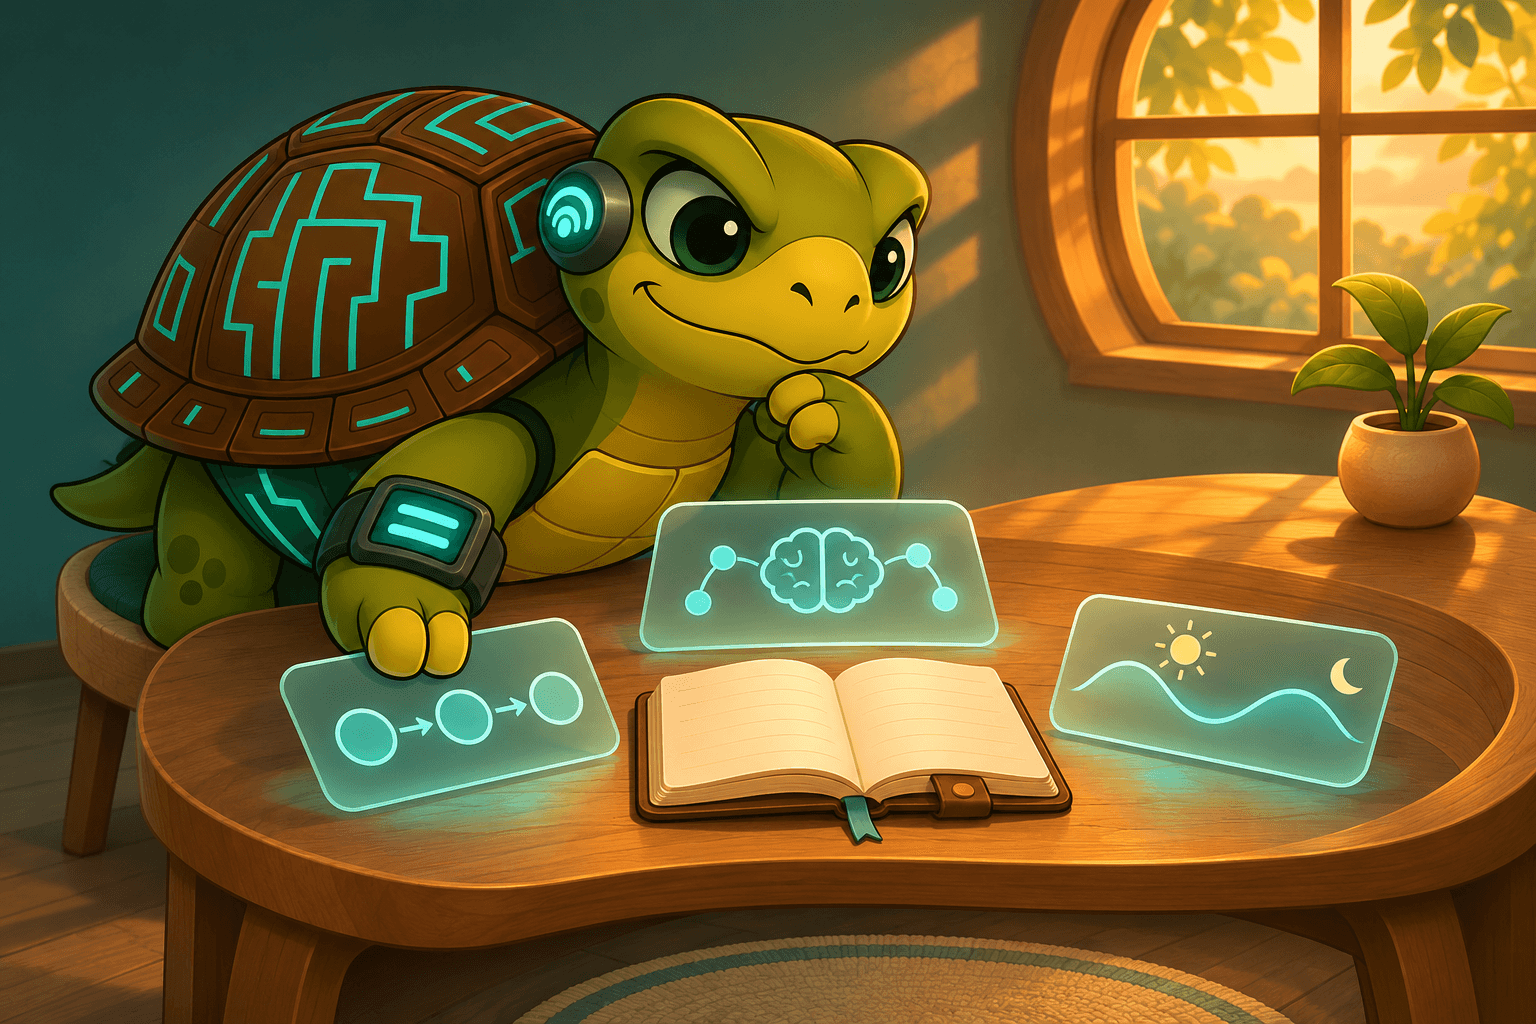
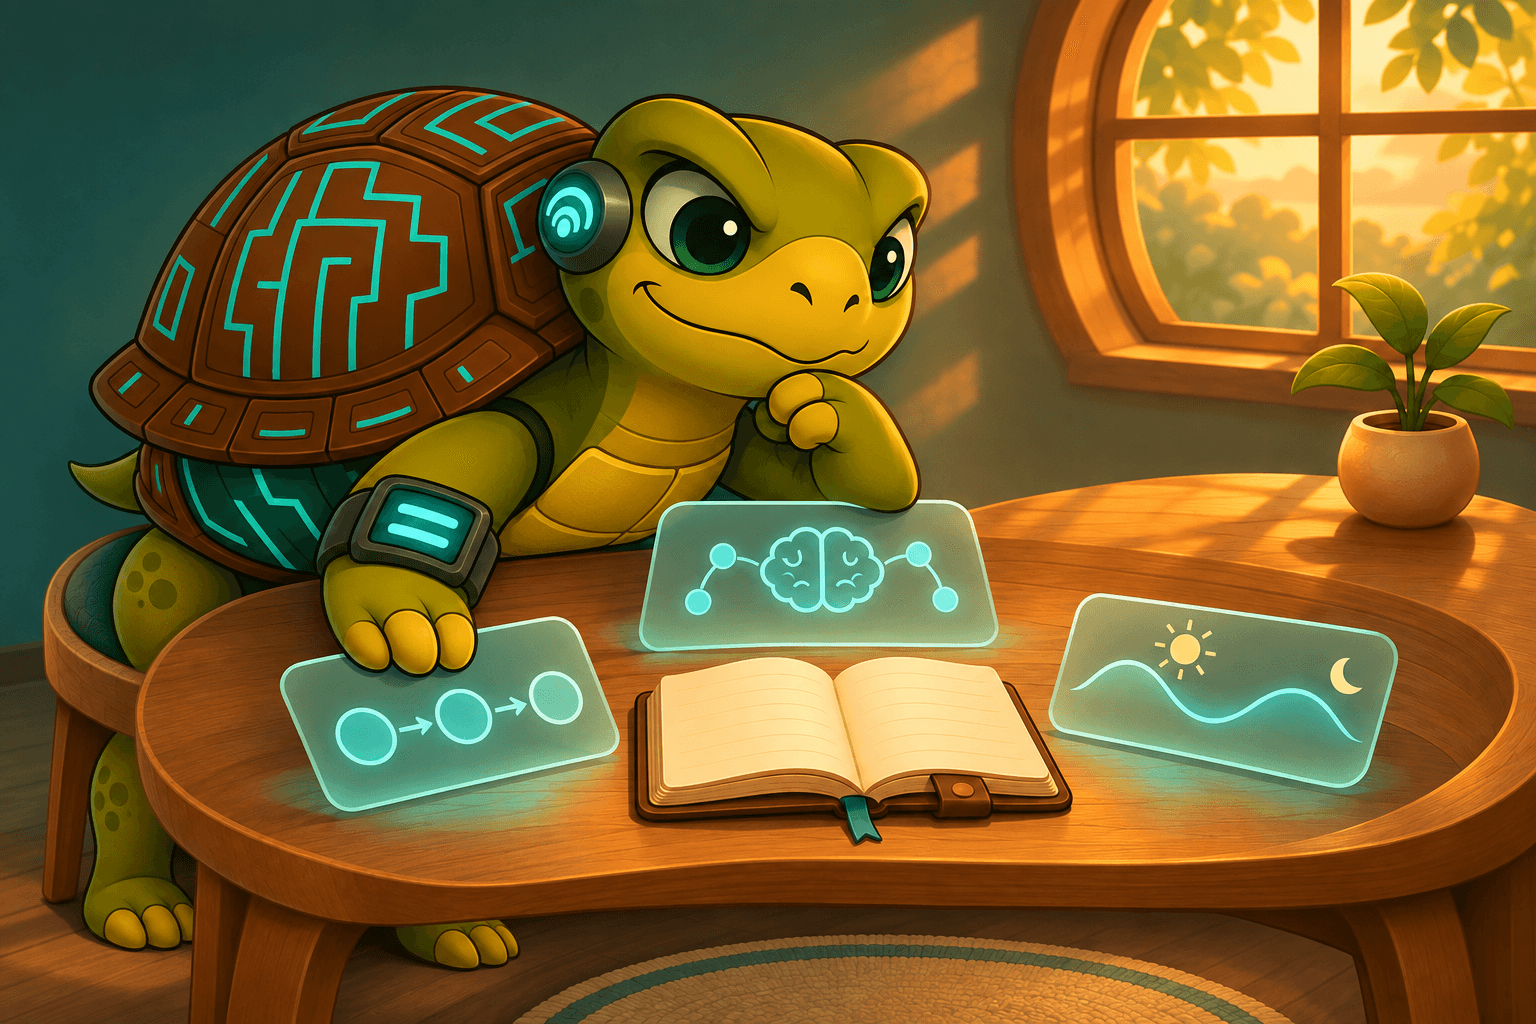
Center the workflow essay on understanding and correct turtle anatomy

diff --git a/src/content/blog/routine-built-around-you.md b/src/content/blog/routine-built-around-you.md
@@ -9,56 +9,36 @@ tags:
   - AI
   - reflection
   - growth
-description: "Design routines and interfaces around human understanding, judgment, and changing capacity, then test whether they actually help."
+description: "Start with one difficulty, make understanding easier, and keep the person in control of the workflow."
 ogImage: /assets/images/routine-built-around-you-tinyfied.png
 ---
 
-![Turtleand arranging simple interfaces around a notebook at a comfortable desk](/assets/images/routine-built-around-you-tinyfied.png)
+![Turtleand considering simple interfaces around an open notebook at a sunlit desk](/assets/images/routine-built-around-you-tinyfied.png)
 
 You open a tool to understand one decision. It gives you a dashboard, a long summary, and twelve suggested next steps.
 
 The system has produced plenty. You still have to work out what deserves your attention.
 
-In a human-AI workflow, generation can become easier while understanding remains demanding. What if we designed the whole flow around that moment: the point where a person needs to absorb something, make a judgment, and move forward?
+That gap can appear while studying, choosing a household purchase, or reviewing a proposal. A useful workflow should leave us better able to understand what matters.
 
-## Start With the Point of Friction
+## Start with the actual difficulty
 
-A routine tailored to you should begin with observation.
+Notice where understanding breaks down. Are you missing context? Is the explanation too abstract? Are too many decisions competing at once?
 
-Where do you repeatedly stop? Perhaps an explanation arrives without an example. Perhaps every task requires reconstructing context. Perhaps the day fills with small approvals before there is room for sustained thought.
+Choose one concrete problem. If you cannot compare two options, first ask which difference matters for your decision. Let that difficulty guide the change.
 
-These are different problems. More automation will not necessarily solve any of them unless it changes the part that is getting in the way.
+## Make understanding easier
 
-Start with one recurring difficulty, rather than an imagined perfect version of your day.
+A worked example can make an unfamiliar idea easier to follow. [Cognitive load guidance](https://education.nsw.gov.au/about-us/education-data-and-research/cese/publications/practical-guides-for-educators/cognitive-load-theory-in-practice.html) recommends these examples when teaching new material, reducing unnecessary demands on working memory.
 
-## Shape the Interface Around Understanding
+For a purchase or proposal, begin with a clear question and a short explanation, with evidence available to check. AI can help prepare this, but its claims still need checking.
 
-An interface can do more than display output. It can make judgment easier.
+Judge usefulness by what you can explain, question, or apply afterward. A preferred format alone does not show that understanding improved.
 
-A decision brief might begin with the question, the recommendation, and the uncertainty, with evidence available underneath. A learning session might start with a concrete example, then ask you to explain the idea before adding complexity. A daily workspace might show the next meaningful action alongside the context needed to begin.
+## Keep the person in control
 
-These are hypotheses to test. Preferring a diagram does not mean every subject becomes easier through diagrams. The useful measure is whether you can understand, recall, question, or use the material afterward.
+[CAST's learner-control guidance](https://udlguidelines.cast.org/engagement/interests-identities/choice-autonomy/) supports meaningful choices about tools, timing, and support.
 
-Personalization should help you meet the difficulty, including the effort that learning requires.
+Our capacity changes. A routine should allow a smaller step or a different pace, while remaining understandable and editable. We should be able to question priorities, correct assumptions, and decline suggestions. We remain responsible for the decision.
 
-## Let the Routine Change With You
-
-A routine built around a person needs room for different days.
-
-Some days support deep work. Others need a smaller task, fewer decisions, or an earlier stopping point. The system should make those adjustments possible without turning them into a failure score.
-
-It should also remain editable. You should be able to see why something is prioritized, correct an assumption, decline a suggestion, and work without the automation when needed.
-
-A system that quietly decides what matters for you may be convenient while moving you away from your own intentions.
-
-## A Small Experiment
-
-Choose one recurring flow: learning a concept, reviewing a proposal, or beginning a work session.
-
-For a week, change only how it reaches you. Ask for an example before abstraction, a short decision brief before the full document, or one next action instead of a queue.
-
-Notice whether starting becomes easier and whether your understanding holds up afterward. Keep what helps. Adjust what merely feels pleasant.
-
-In [The Human Bottleneck](/posts/human-bottleneck-ai/), the responsibility is to remain meaningfully involved. Designing around that responsibility could mean less material to process, better questions, and more room to think.
-
-If your workflow were built around helping you understand, what would it stop asking you to do?
+**A small experiment:** In your next task, name one thing you do not understand. Change one thing about how it is presented. Before moving on, explain what became clearer and what you still need to ask.
